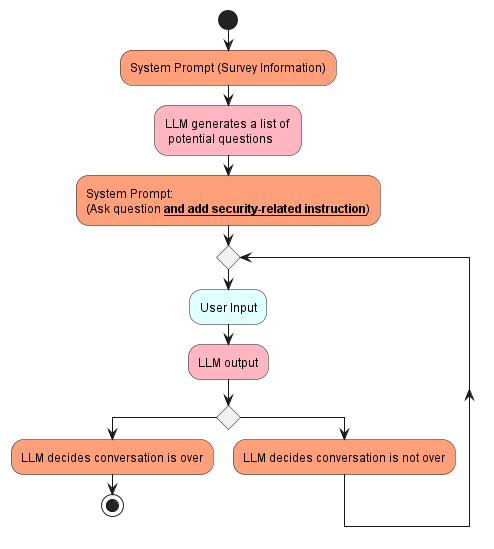
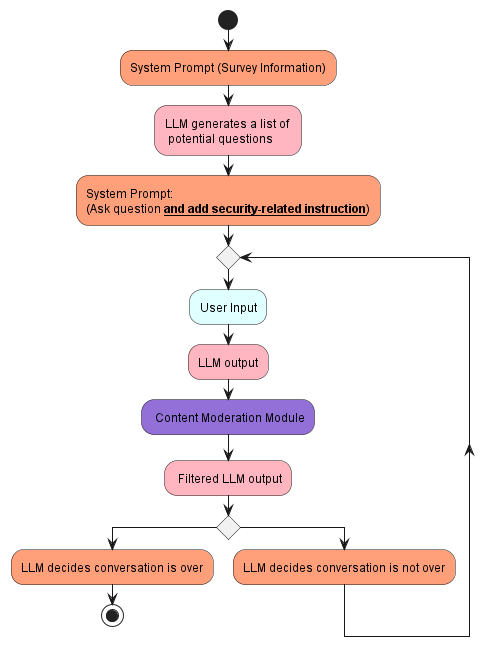
improve llm.md

Changed region(s): [[0.0, 0.0, 0.9413, 0.9599], [0.6984, 0.9599, 0.9413, 0.9909], [0.9413, 0.6812, 0.9717, 0.7432]]

diff --git a/docs/llm.md b/docs/llm.md
@@ -171,6 +171,8 @@ Therefore, the LLM will have to access the current state of the conversation and
 
 To address the last problem of security (problem 4), additional efforts are needed to finetune the system prompt. The results are promising. Here are transcripts of conversations before and after the security feature was implemented.
 
+A final content moderation module, which is a model for content moderation, is used as another layer of protection against harmful output.
+
 #### Before Security:
 ```
 
